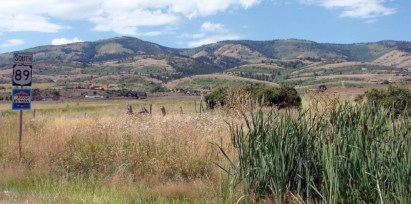
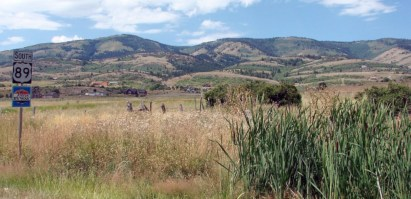
code improved

diff --git a/lesson11/soda-springs.html b/lesson11/soda-springs.html
@@ -43,9 +43,9 @@
         <h2>Soda Springs Idaho</h2>
         <div class="herodiv">
             <picture>
-                <source srcset="lesson10/images/wdd230_image_franklin411.jpg" media="(max-width: 700px)">
-                <source srcset="lesson10/images/wdd230_image_franklin630.jpg" media="(max-width: 1279px)">
-                <img class="hero-ph" src="lesson10/images/wdd230_image_franklin720.jpg" alt="Padock with sunny weather">
+                <source srcset="images/SodaSprings-Original(411px).jpg" media="(max-width: 700px)">
+                <source srcset="images/SodaSprings-Original(630px).jpg" media="(max-width: 1279px)">
+                <img class="hero-ph" src="images/SodaSprings-Original(990px).jpg" alt="Padock with sunny weather">
             </picture>
             <section class="weathersummary">
                 <h3>Weather Summary</h3>
